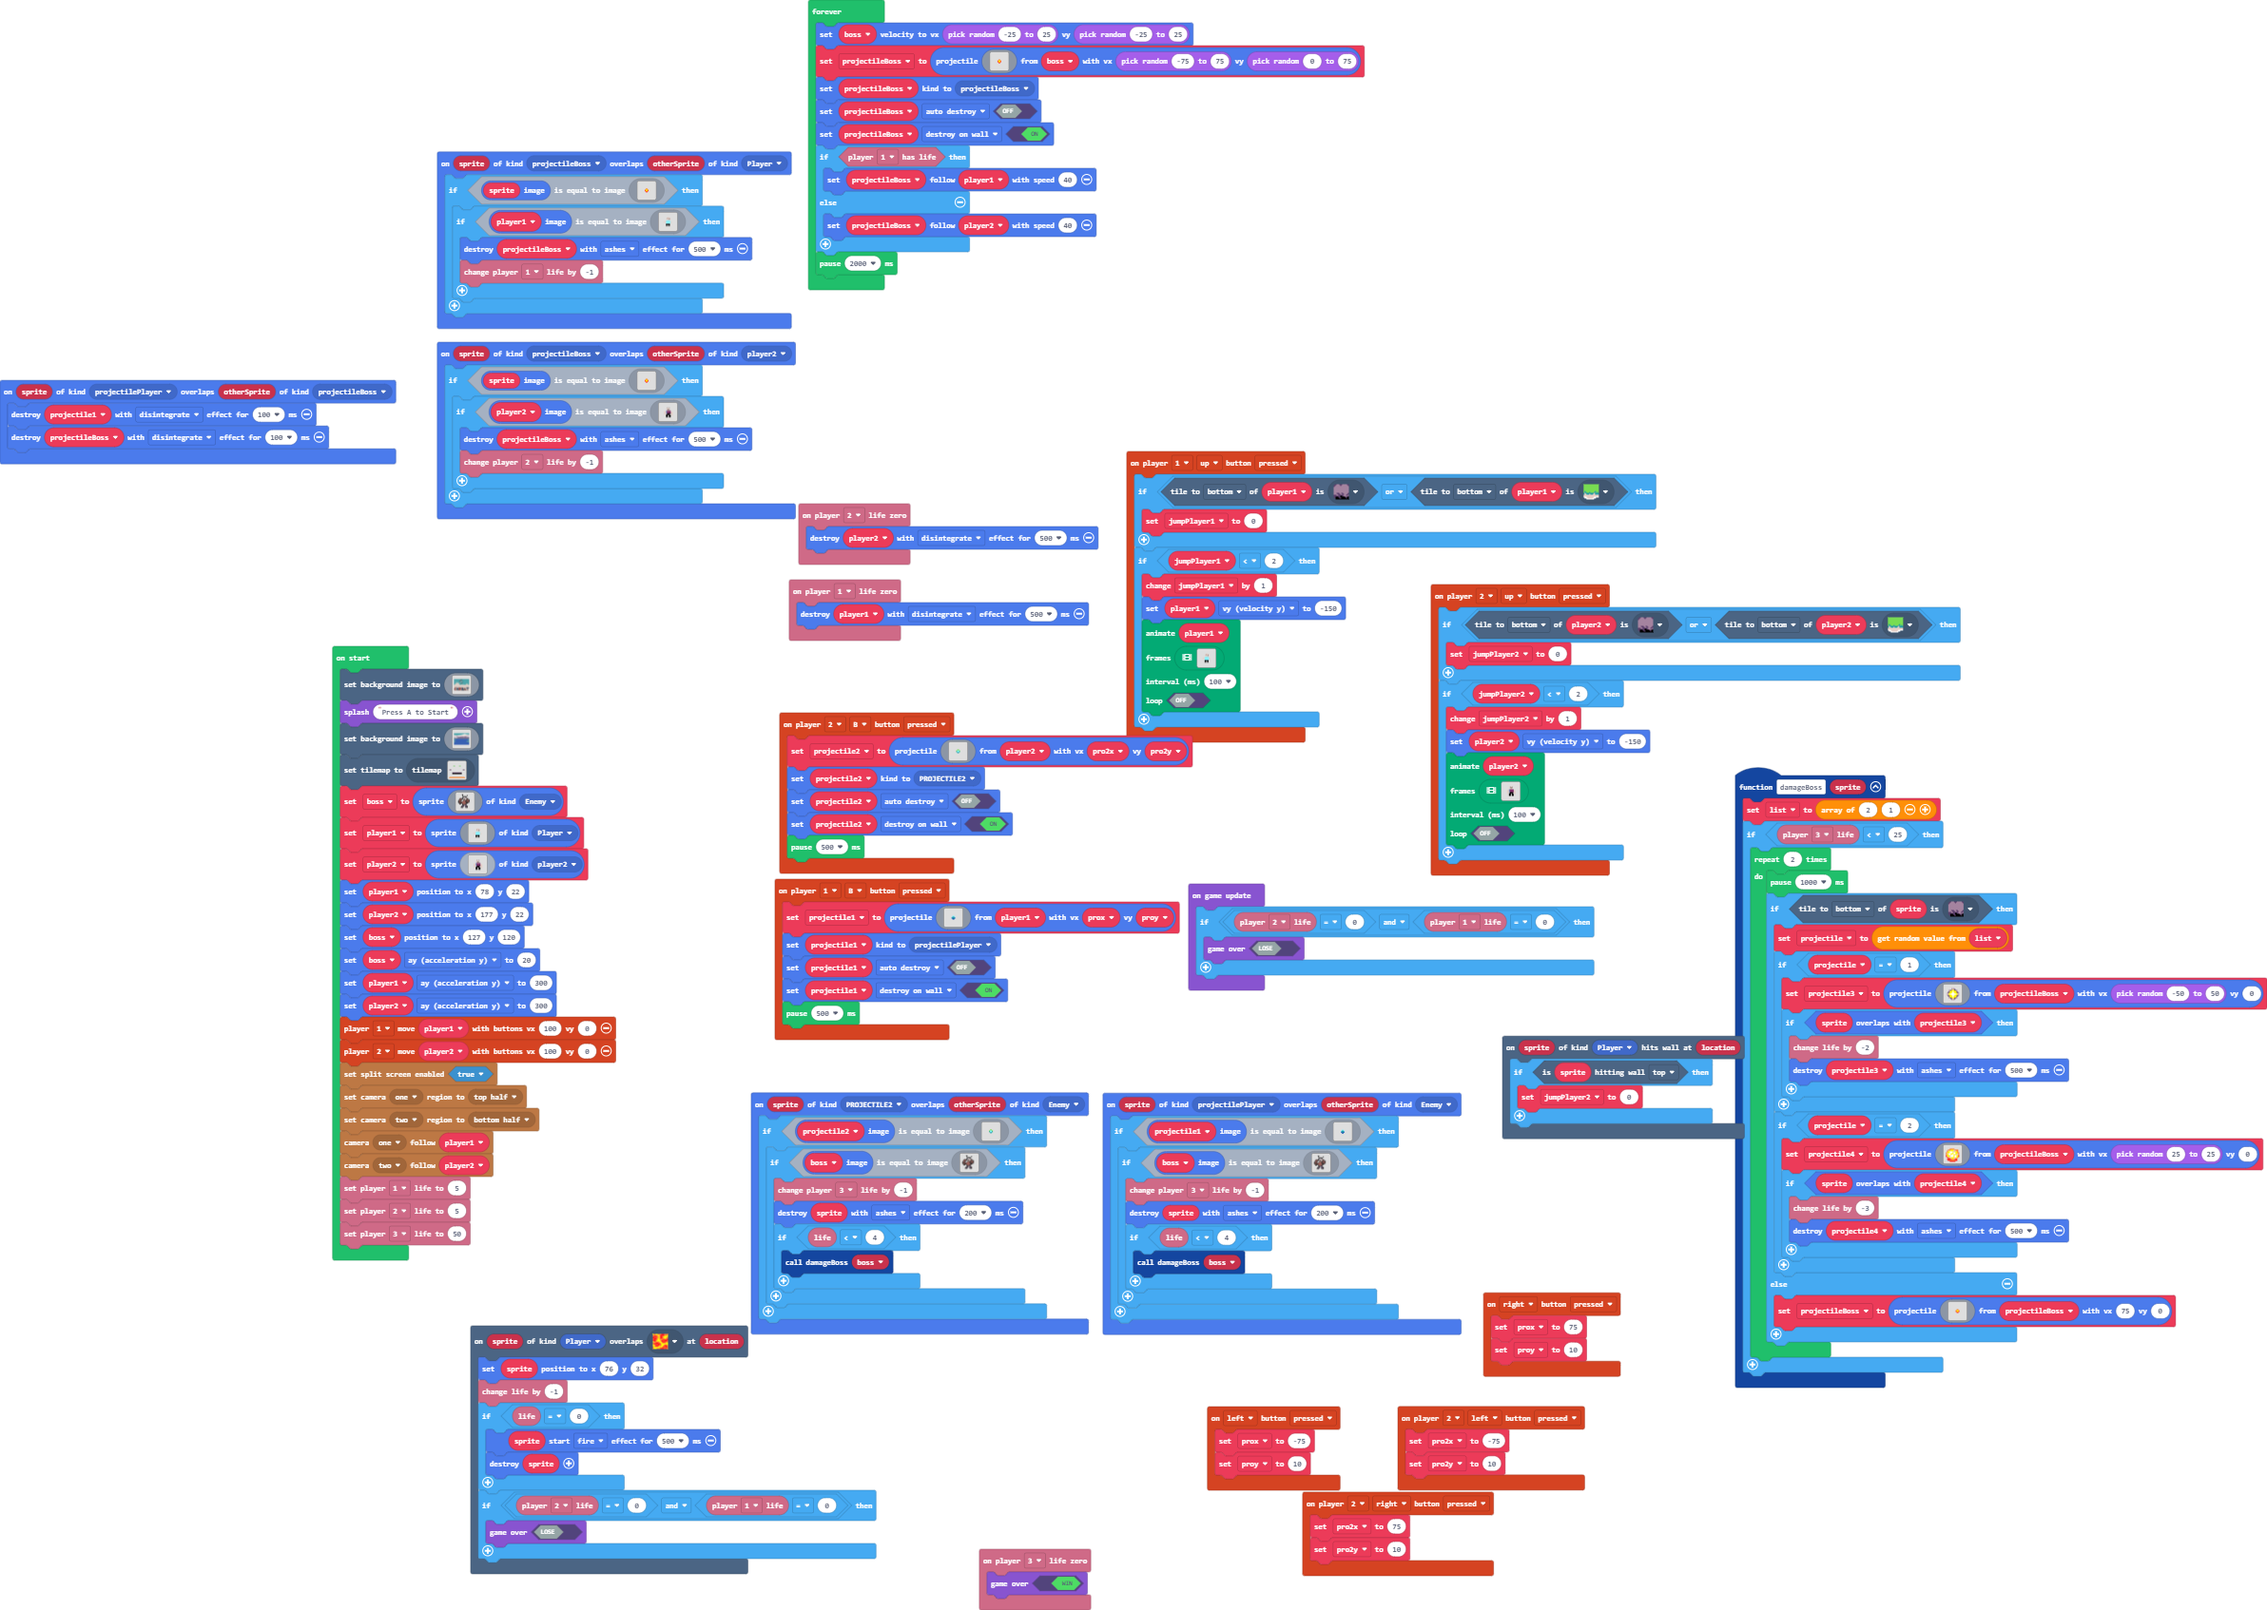
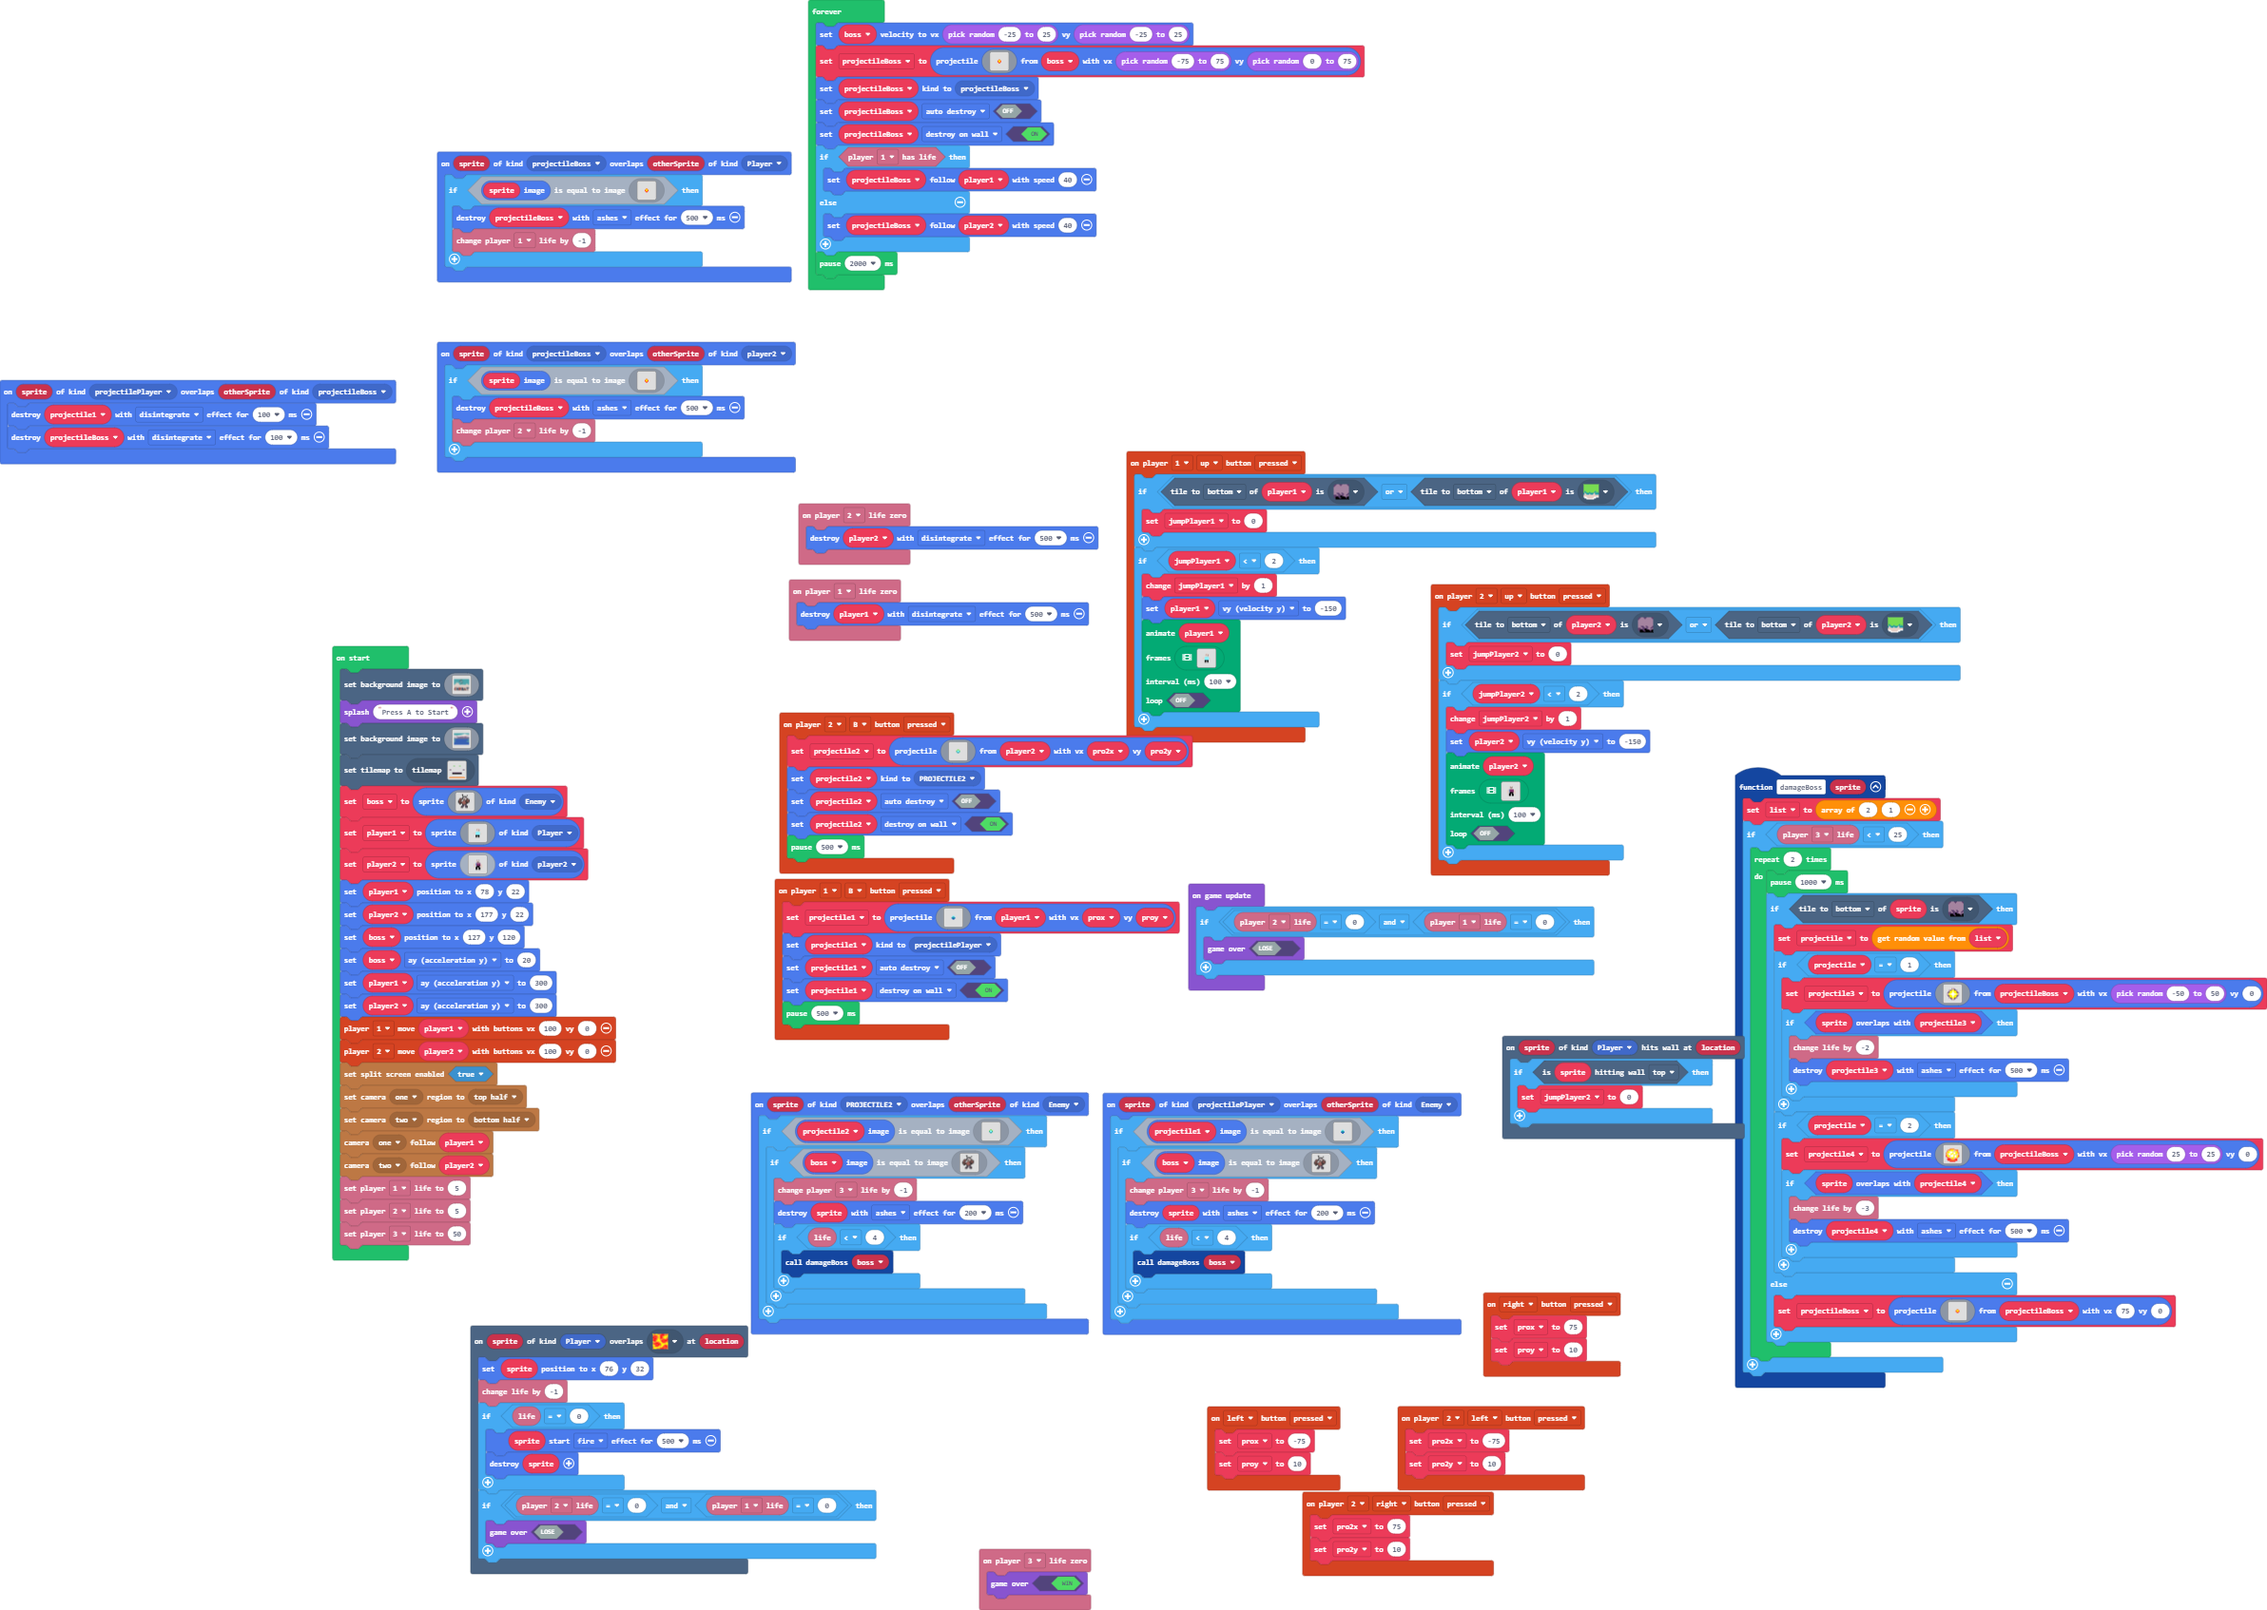
Update main.blocks, main.ts

Changed region(s): [[0.1862, 0.2456, 0.3725, 0.3377], [0.1862, 0.1228, 0.3414, 0.2149]]

diff --git a/main.ts b/main.ts
@@ -52,43 +52,8 @@ sprites.onOverlap(SpriteKind.projectileBoss, SpriteKind.Player, function (sprite
         . . . . . . . . . . . . . . . . 
         . . . . . . . . . . . . . . . . 
         `)) {
-        if (player1.image.equals(img`
-            ................................
-            ................................
-            ................................
-            ................................
-            ................................
-            ................................
-            ...............dd...............
-            ..............dddddd............
-            .............dfddddfd...........
-            .............dddddddd...........
-            .............dddddfdd...........
-            .............dddddddd...........
-            ..............dddddd............
-            .............9999999............
-            ............999999999...........
-            ........dddd999999999d..........
-            .......dd..d999999999ddd........
-            .......dd..d999999999.dd........
-            ........d..d999999999..d........
-            ............999999999..d........
-            ............ffffffff............
-            ............fff..fff............
-            ............fff..fff............
-            ............fff..fff............
-            ............fff..fff............
-            ................................
-            ................................
-            ................................
-            ................................
-            ................................
-            ................................
-            ................................
-            `)) {
-            sprites.destroy(projectileBoss, effects.ashes, 500)
-            info.player1.changeLifeBy(-1)
-        }
+        sprites.destroy(projectileBoss, effects.ashes, 500)
+        info.player1.changeLifeBy(-1)
     }
 })
 controller.player1.onButtonEvent(ControllerButton.Up, ControllerButtonEvent.Pressed, function () {
@@ -290,43 +255,8 @@ sprites.onOverlap(SpriteKind.projectileBoss, SpriteKind.player2, function (sprit
         . . . . . . . . . . . . . . . . 
         . . . . . . . . . . . . . . . . 
         `)) {
-        if (player2.image.equals(img`
-            ................................
-            ................................
-            ................................
-            ................................
-            ................................
-            ................................
-            ................................
-            ..............fdddf.............
-            .............ddddddd............
-            .............ddddddd............
-            .............ddffffd............
-            ..............ddddd.............
-            ..............dddd..............
-            .............882288228..........
-            .........dddd882288228..........
-            ........ddddd882288228ddd.......
-            ........ddddd882288228dddd......
-            ........ddd..882288228dddd......
-            ........ddd..882288228dddd......
-            ........ddd...ffffffffdddd......
-            ........ddd..fffffff...ddd......
-            ........dd...fffffff...ddd......
-            ............ffff..ffff..dd......
-            ............ffff..ffff..dd......
-            ............ffff..ffff..........
-            ............ffff..ffff..........
-            ............ffff..ffff..........
-            ................................
-            ................................
-            ................................
-            ................................
-            ................................
-            `)) {
-            sprites.destroy(projectileBoss, effects.ashes, 500)
-            info.player2.changeLifeBy(-1)
-        }
+        sprites.destroy(projectileBoss, effects.ashes, 500)
+        info.player2.changeLifeBy(-1)
     }
 })
 sprites.onOverlap(SpriteKind.projectilePlayer, SpriteKind.Enemy, function (sprite, otherSprite) {
